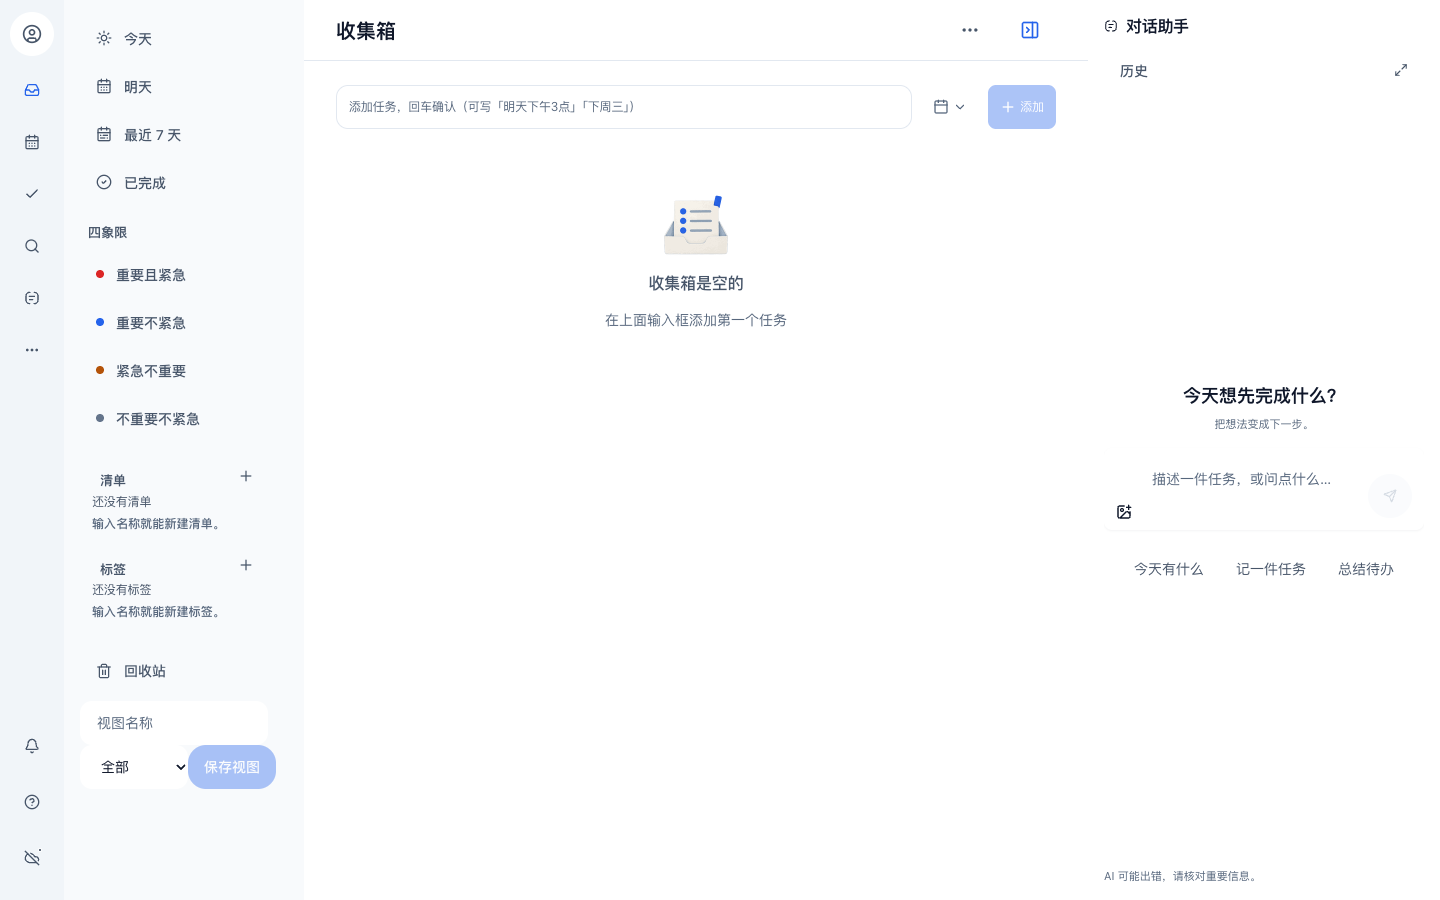
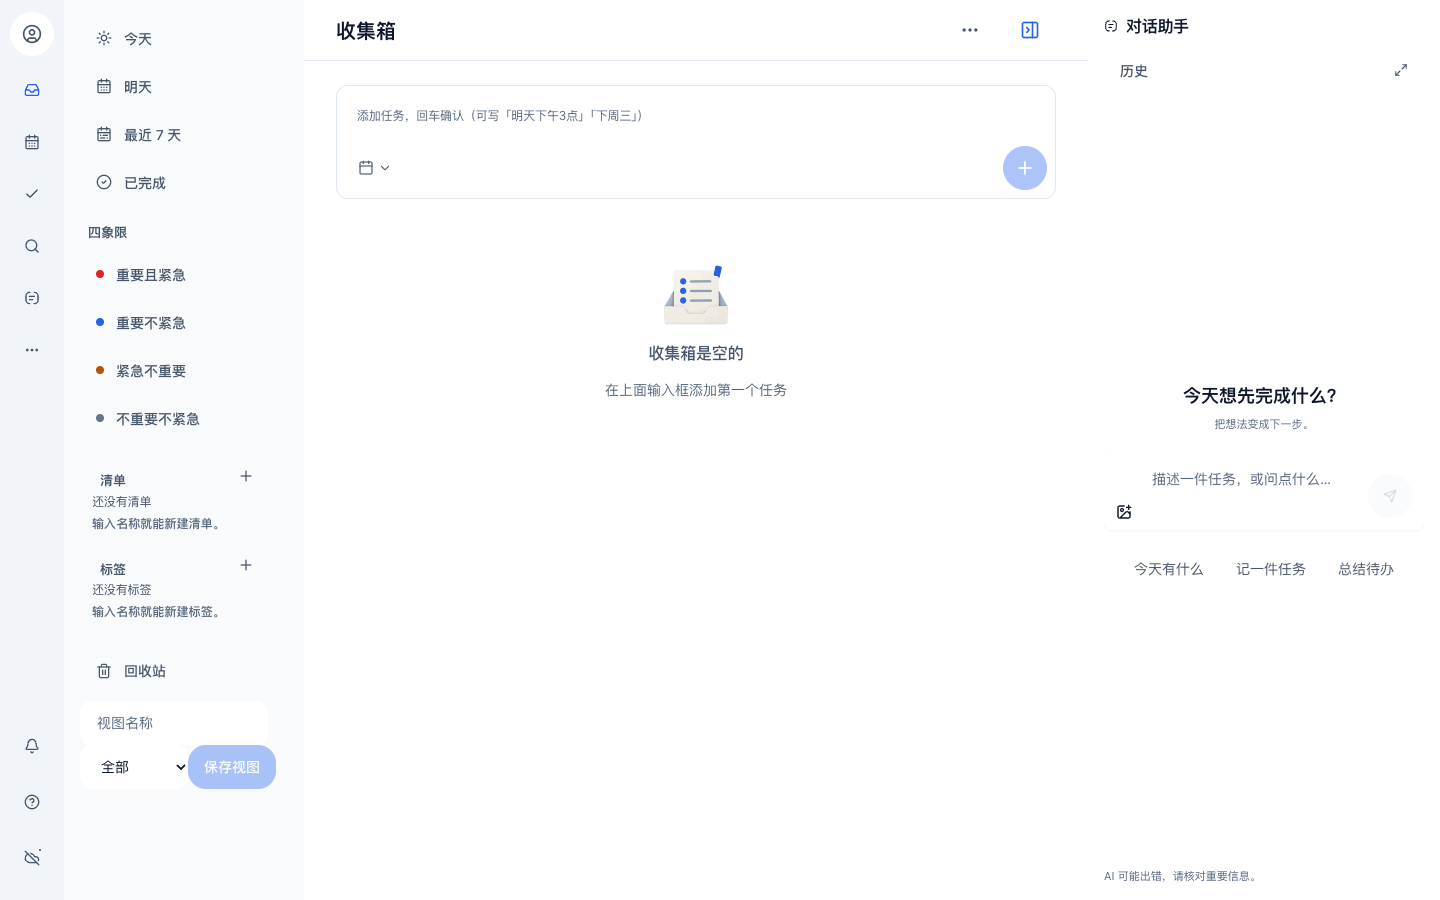
feat(capture): 输入区收成「一个外框 + 上下两层」—— 输入在上、工具行在下
## 产品口径

「主要是 UX，我希望你做掉修改」+ 参照 DSH 的 composer 截图。
形状是：**一个大圆角外框**，上层输入、下层工具行，主操作是圆形图标键。

## 之前是什么形状

「输入框 | 日期胶囊 | 添加按钮」三个控件并排一行。三条实测问题：

1. **窄屏争宽度**：390pt 上 placeholder 被挤断成「添加任务，回车确认（可写「明天下」。
2. **阅读顺序不对**：「输入 → 落点 → 提交」是**上下两层**的关系，
   并排一行读起来是"三件同级的东西"。
3. **主操作是圆角矩形 + 「添加」二字**，窄屏会把工具行挤成两行。

## 现在的形状

- `compose`：row → **column**，外面套一圈 `color.border` 细边 + `radius.lg` + 白底（承载只靠线）。
- 上层：输入框（**去掉自己的边框与底色** —— 两层各画一圈会变成"框中框"）。
- 下层 `toolRow`：日期胶囊在左、`flex: 1` 撑开、圆形主操作在右。
- `addButton`：圆形图标键，**显式 `width`/`height` 44dp**。
  ⚠ 不能用 `aspectRatio: 1`：在 row 容器里 Yoga 会按可用宽度反推高度，
  窄屏算出比 44dp 更大的正方形，按钮**溢出外框**（390 视口实拍确认）。
- `input` 去掉 `flex: 1`：它是"并排一行"时代的写法，改成列之后
  它会**吃掉外框剩余高度** —— 实拍多出 45pt 空白，外框被撑高一倍。
- 删掉不再使用的 `addText` 样式（死代码是下一次漂移的起点）。

## 判据

- 桌面 1440 与窄屏 390 实拍：外框完整包住两层，圆形键不溢出
- `@heyta/ui` 987 tests 全绿；`tsc --noEmit` 干净
- 无障碍名仍由 `labels.add` 提供（图标键没有可见文字，读屏照旧读"添加"）

Changed region(s): [[0.4062, 0.2178, 0.5625, 0.4356], [0.25, 0.0933, 0.4375, 0.1556], [0.6562, 0.0933, 0.75, 0.2178]]

diff --git a/packages/ui/src/capture/CaptureComposer.tsx b/packages/ui/src/capture/CaptureComposer.tsx
@@ -348,33 +348,74 @@ function makeStyles(tokens: HeytaNativeTokens) {
       gap: tokens['space.3'],
     },
     /** 输入行：输入框吃掉剩余宽度，按钮贴右。 */
+    /**
+     * 输入区**外框**（2026-11-16 产品口径：「主要是 UX」+ 参照 DSH 的 composer）。
+     *
+     * 形状从"输入框 | 日期胶囊 | 添加按钮"三个并排控件，收成**一个容器内上下两层**：
+     * 上层输入、下层工具行。这与参照图一致，也解决三个并排控件在 375dp 上
+     * 争宽度、placeholder 被挤断的问题（真机「添加任务，回车确认（可写「明天下」
+     * 就是这么断的）。
+     *
+     * 🔴 承载只靠**一圈细边**（白底 + `color.border`）：页面改白之后，
+     * 靠灰底分层会把它变成"又一块灰"。
+     */
     compose: {
-      flexDirection: 'row',
-      alignItems: 'stretch',
+      flexDirection: 'column',
       gap: tokens['space.2'],
-    },
-    input: {
-      flex: 1,
-      minHeight: tokens['touch-target.min'],
-      paddingHorizontal: tokens['size.field-padding-x'],
-      /**
-       * 🔴 2026-11-16：同上 —— 页面白之后，白输入面没有承载。
-       * 见 `descriptionInput` 那条注释（产品口径与滴答的参照都在那里）。
-       */
+      padding: tokens['space.2'],
       borderWidth: tokens['border-width.thin'],
       borderColor: tokens['color.border'],
       borderRadius: tokens['radius.lg'],
       backgroundColor: tokens['color.surface'],
+    },
+    /** 工具行：日期胶囊在左，主操作在右（参照图里工具行的排法）。 */
+    toolRow: {
+      flexDirection: 'row',
+      alignItems: 'center',
+      gap: tokens['space.2'],
+    },
+    /** 中间那段空白：把主操作推到工具行右端。 */
+    toolSpacer: {
+      flex: 1,
+    },
+    input: {
+      /*
+        🔴 **不要 `flex: 1`**（2026-11-16）。它是"输入框与按钮并排一行"那个时代的写法；
+        `compose` 改成列之后，`flex: 1` 让输入框**吃掉外框的剩余高度** ——
+        实拍：输入文字与工具行之间凭空多出 45pt 空白，外框整体被撑高一倍。
+        列方向里它只需要"撑满宽度 + 不小于触控下限"。
+      */
+      alignSelf: 'stretch',
+      minHeight: tokens['touch-target.min'],
+      paddingHorizontal: tokens['size.field-padding-x'],
+      /**
+       * 🔴 2026-11-16：输入框**自己不再画框** —— 它现在住在 `compose` 那个外框里。
+       * 两层各画一圈边会变成"框中框"（参照图里也只有外框一圈）。
+       */
+      borderWidth: 0,
+      backgroundColor: 'transparent',
       color: tokens['color.foreground'],
     },
+    /**
+     * 主操作：**圆形图标键**（2026-11-16，参照 DSH 的发送键）。
+     * 从"圆角矩形 + 「添加」二字"改成圆形 —— 文字版在窄屏会把工具行挤成两行，
+     * 而"+"在这个位置是共识符号（无障碍名仍由 `labels.add` 提供，见 JSX）。
+     * `aspectRatio: 1` + `minHeight` 保证它是正圆且不小于 44dp 触控下限。
+     */
     addButton: {
       flexDirection: 'row',
       alignItems: 'center',
       justifyContent: 'center',
-      gap: tokens['space.1'],
-      minHeight: tokens['touch-target.min'],
-      paddingHorizontal: tokens['size.field-padding-x'],
-      borderRadius: tokens['radius.md'],
+      /*
+        🔴 用**显式宽高**而不是 `aspectRatio: 1`：在 `flexDirection: 'row'` 的容器里，
+        Yoga 会先按可用宽度分配、再由 `aspectRatio` 反推高度 —— 窄屏上算出
+        比 `minHeight` 更大的正方形，圆形按钮**溢出外框**（真机与 390 视口实拍都出现）。
+        显式 `width`/`height` 是确定的，且两者都取 44dp 触控下限。
+      */
+      width: tokens['touch-target.min'],
+      height: tokens['touch-target.min'],
+      paddingHorizontal: 0,
+      borderRadius: tokens['radius.full'],
     },
     addEnabled: {
       backgroundColor: tokens['color.primary'],
@@ -382,9 +423,6 @@ function makeStyles(tokens: HeytaNativeTokens) {
     addDisabled: {
       backgroundColor: tokens['color.primary'],
       opacity: tokens['state.disabled-opacity'],
-    },
-    addText: {
-      color: tokens['color.on-primary'],
     },
     /**
      * 日期胶囊：**长在输入行内部右侧**，与输入框同一个高度档（一档一个高度，
@@ -746,6 +784,13 @@ export function CaptureComposer({
           {...(autoFocus === undefined || managesFocusItself ? {} : { autoFocus })}
           testID="capture-input"
         />
+
+        {/*
+          工具行（2026-11-16）：日期胶囊在左、主操作在右 —— 与输入框同处**一个外框**内。
+          此前这三件是并排的一行，窄屏上 placeholder 被挤断（真机「（可写「明天下」
+          就是这么断的），而"输入→落点→提交"其实是**上下两层**的阅读顺序。
+        */}
+        <View style={styles.toolRow}>
         {/*
           🔴 日期胶囊：**这条新任务会落在哪一天几点**，由这一枚说。
           它常驻（不随聚焦长出）—— 藏起来会让"没选日期"和"选了但看不见"在截图上
@@ -777,6 +822,8 @@ export function CaptureComposer({
             color={tokens['color.foreground-subtle']}
           />
         </Pressable>
+        {/* 撑开：让主操作贴右（参照图里发送键在右下角）。 */}
+        <View style={styles.toolSpacer} />
         <Pressable
           accessibilityRole="button"
           accessibilityLabel={labels.add}
@@ -789,9 +836,9 @@ export function CaptureComposer({
           style={[styles.addButton, canSubmit ? styles.addEnabled : styles.addDisabled]}
           testID="capture-submit"
         >
-          <HeytaIcon data={Plus} size={tokens['icon.sm']} color={tokens['color.on-primary']} />
-          <Text style={[text['row-meta'], styles.addText]}>{labels.add}</Text>
+          <HeytaIcon data={Plus} size={tokens['icon.md']} color={tokens['color.on-primary']} />
         </Pressable>
+        </View>
       </View>
 
       {descriptionInput ? (
